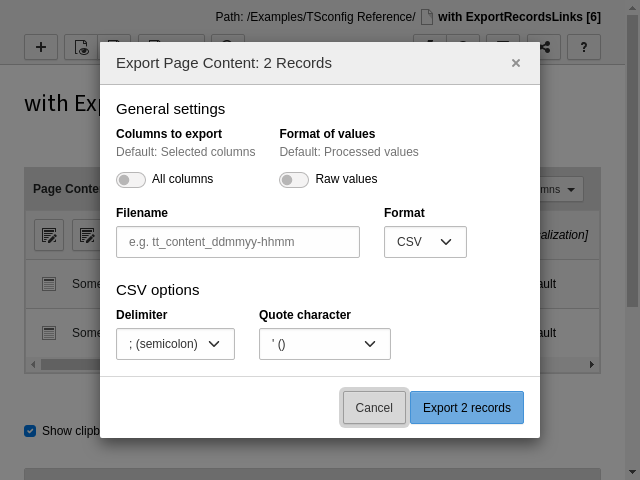
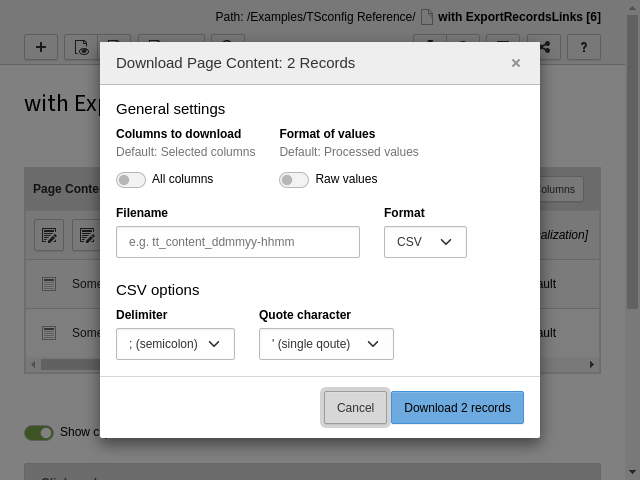
[DEPRECATION] #94313 - AbstractService class Updated Screenshots and Gui labels

diff --git a/Documentation/PageTsconfig/Mod.rst b/Documentation/PageTsconfig/Mod.rst
@@ -706,9 +706,9 @@ csvDelimiter
    string
 
 :aspect:`Description`
-   Defines the default delimiter for CSV exports (Microsoft Excel expects
+   Defines the default delimiter for CSV downloads (Microsoft Excel expects
    `;` to be set). The value set will be displayed as default delimiter in the
-   export dialog in the list module.
+   download dialog in the list module.
 
 :aspect:`Default`
    ,
@@ -721,7 +721,7 @@ csvDelimiter
 
 .. index::
    csvQuote
-   CSV Exports; Quoting character
+   CSV Downloads; Quoting character
 
 csvQuote
 --------
@@ -730,8 +730,8 @@ csvQuote
     string
 
 :aspect:`Description`
-   Defines the default quoting character for CSV exports. The value set will
-   be displayed as default quoting in the export dialog in the list module.
+   Defines the default quoting character for CSV downloads. The value set will
+   be displayed as default quoting in the download dialog in the list module.
 
 
 :aspect:`Default`
@@ -1043,7 +1043,7 @@ noCreateRecordsLink
 .. index::
    noExportRecordsLinks
    Buttons; Export
-   Buttons; Download CSV file
+   Buttons; Download
 
 noExportRecordsLinks
 --------------------
@@ -1052,15 +1052,18 @@ noExportRecordsLinks
     boolean
 
 :aspect:`Description`
-   If set, the "Export" buttons are hidden in the list module. This applies to
-   the button in the top for t3d exports, the button directly on the table
-   listing for csv exports and the button in the tables single view.
+   If set, the :guilabel:`Download` and :guilabel:`Export` buttons are hidden
+   in the list module. This applies to
+   the :guilabel:`Export` button in the top for t3d exports, the
+   :guilabel:`Download` button directly on the table
+   listing for csv download and the :guilabel:`Download` button in the tables
+   single view.
 
    This option is for example important to disable batch
    download of sensitive data via CSV or t3d exports.
 
-   The buttons "Export" and "Download CSV file" are hidden
-   in single table view inside the list module:
+   The buttons :guilabel:`Export` and :guilabel:`Download` are hidden
+   in single table view and inside the list module:
 
    .. include:: /Images/AutomaticScreenshots/WebList/WithExportButtons.rst.txt
 
